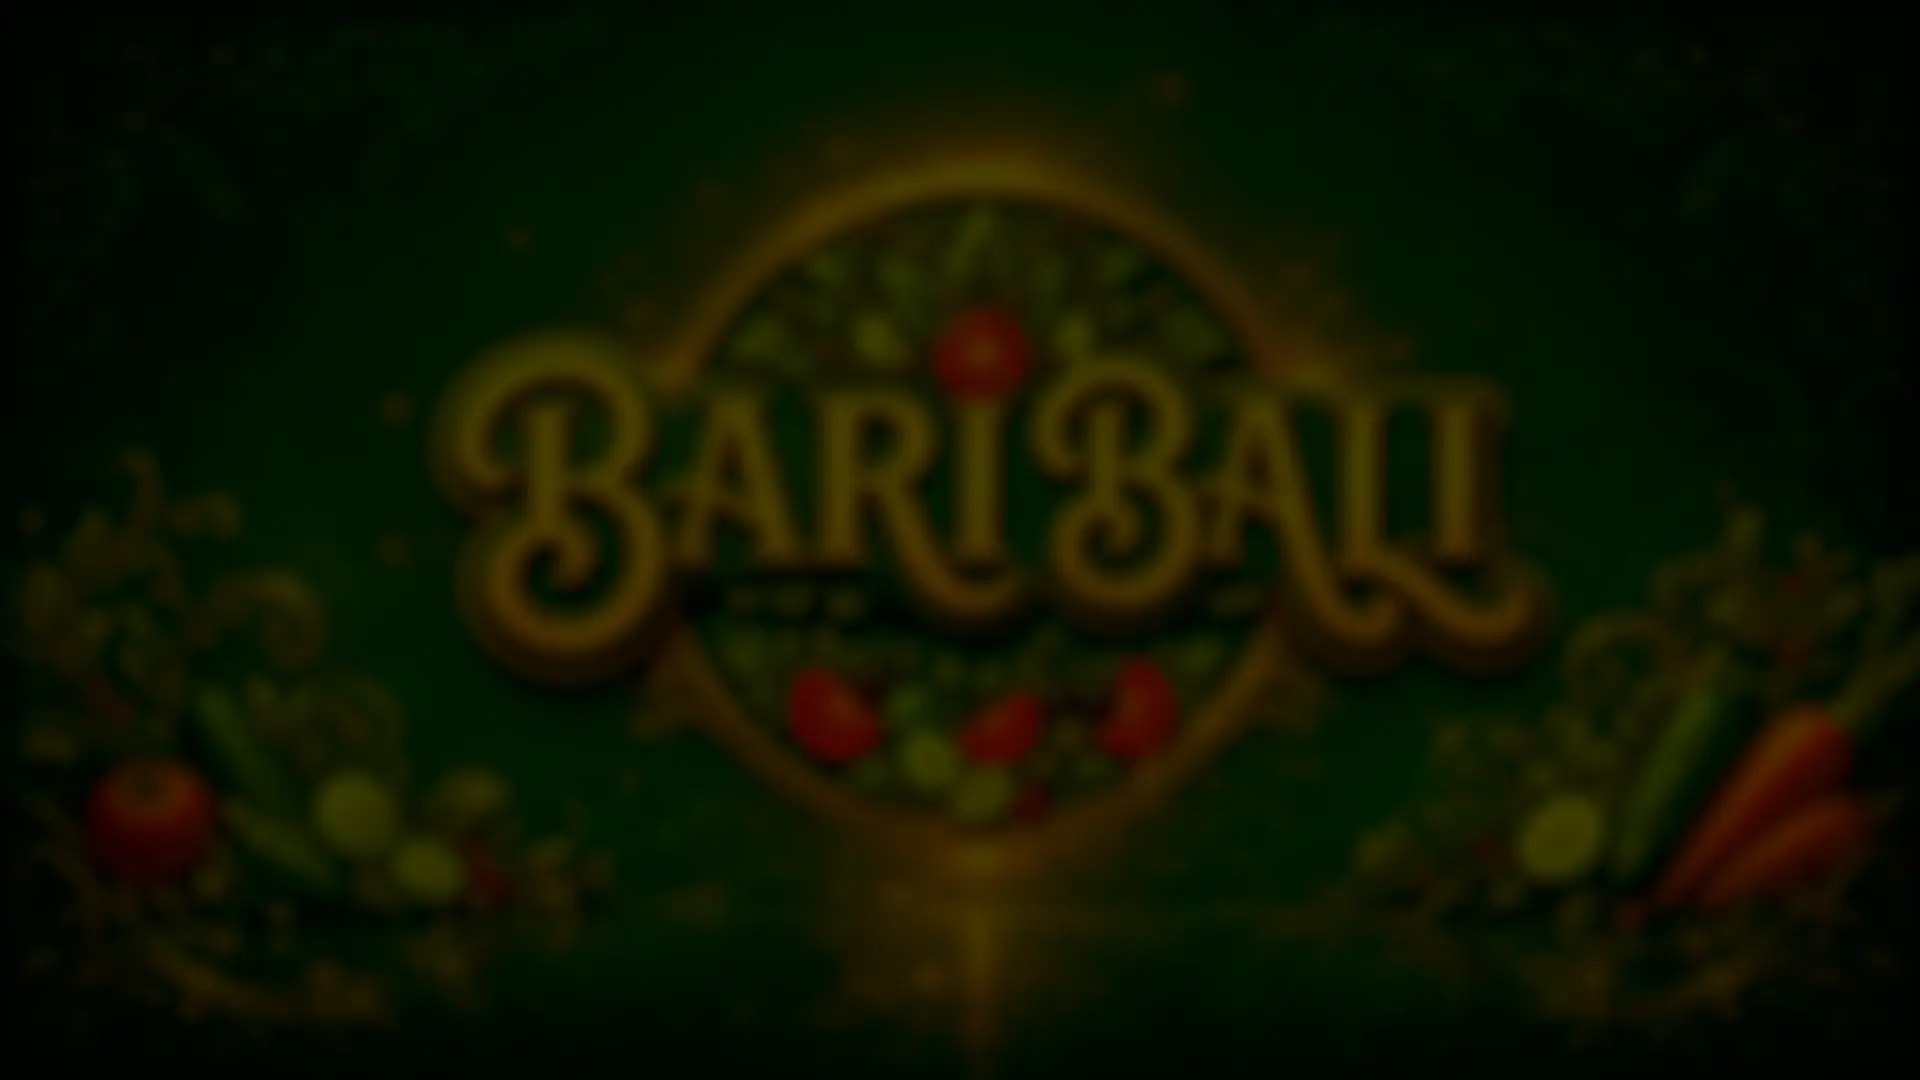
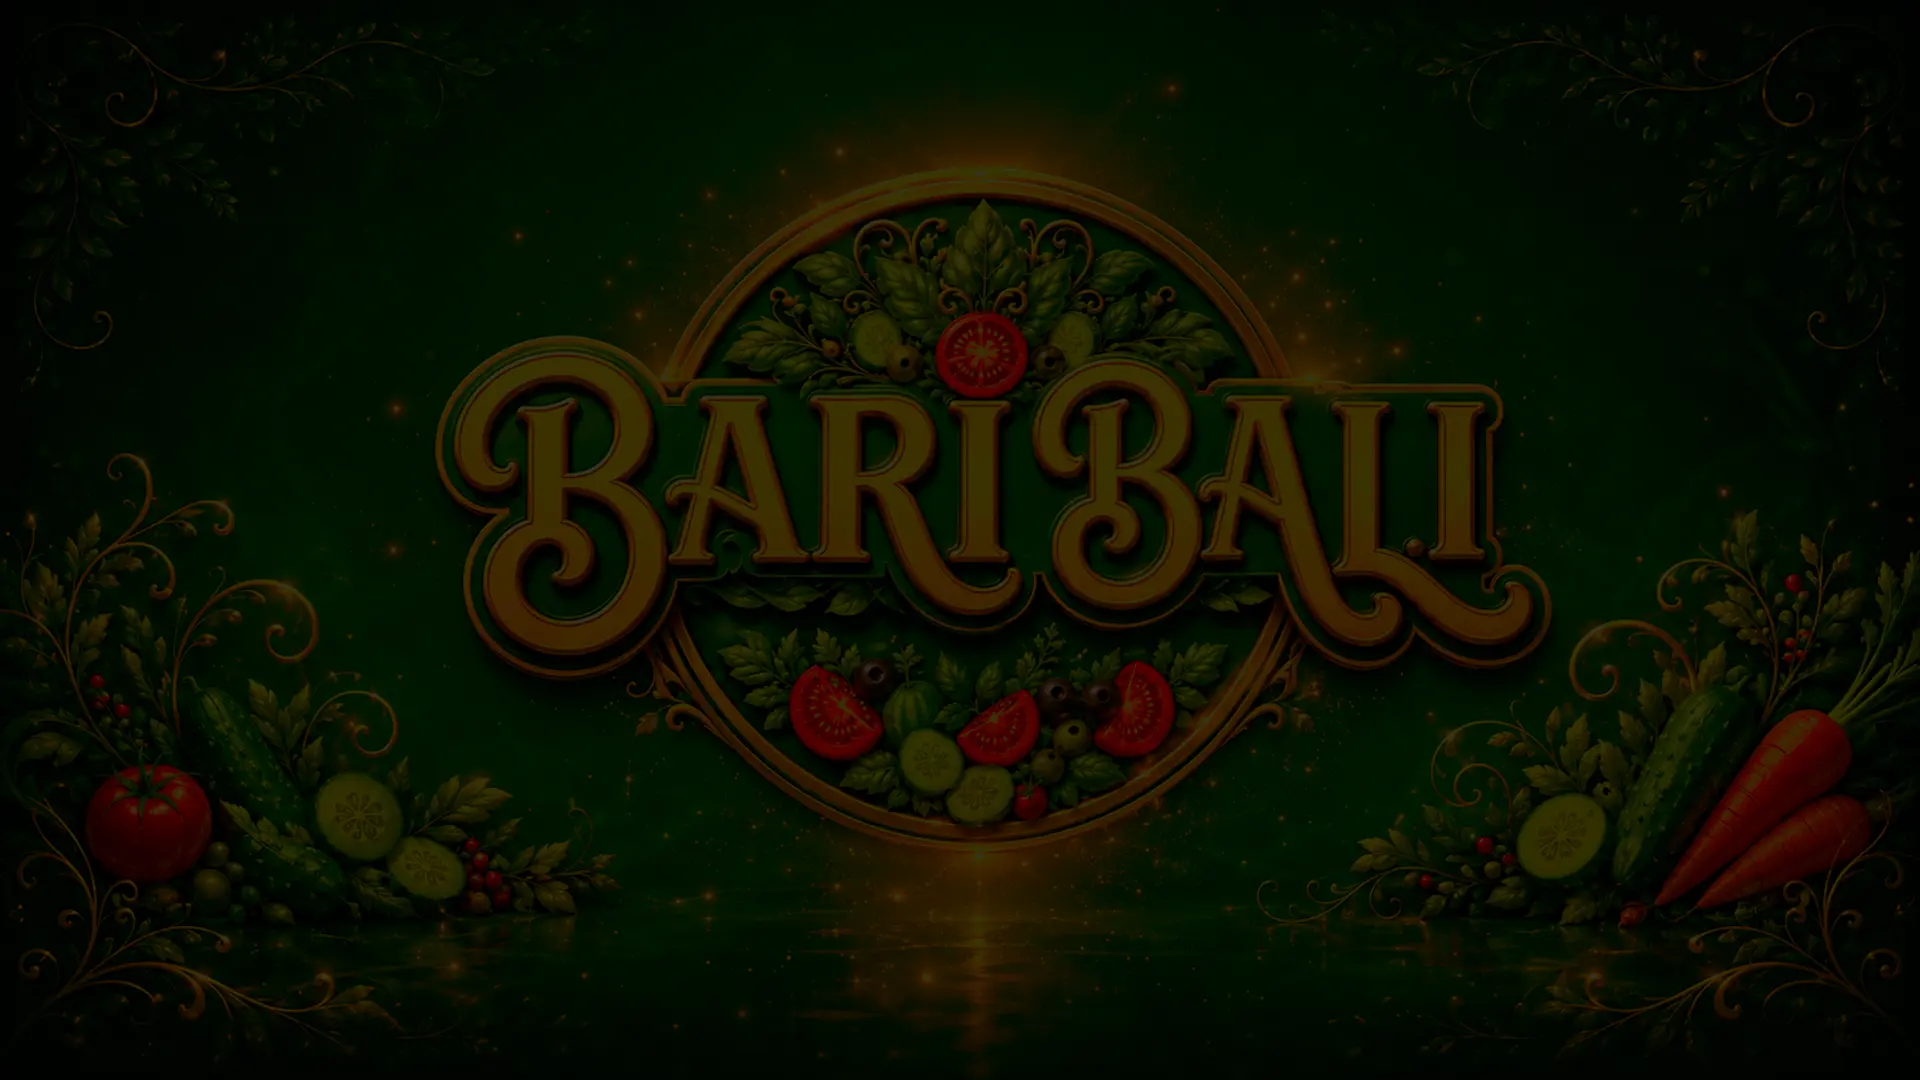
feat: the kitchen plate, sharp
Drops the blur at the owner's request, and the measurement says it cost nothing
to drop.

The blur existed to stop the artwork competing with text. Darkening does that on
its own: the UNBLURRED plate at 30% brightness varies less behind the working
area than the blurred one did at 40% — spread 9.2 against 9.9, on a 0-255 scale,
sampled after the scrim. The blur was buying softness the exposure had already
paid for, and it was throwing away the filigree and the gold edges of the
wordmark, which are the things that make the board look like BariBali rather
than like a dark green rectangle.

All three treatments regenerated sharp, so the ?bg switches stay meaningful:

    bg-a  22% bright   mean 13.0   spread  6.9    68KB   quietest
    bg    30% bright   mean 13.7   spread  9.2    84KB   default
    bg-b  42% bright   mean 14.8   spread 12.7   108KB   boldest

Still all near mean 14, so white text is comfortable on any of them. Bigger
files than the blurred versions — blur compresses well and detail does not — but
this is a wall tablet that loads the image once a shift.

Verified: tsc clean, lint 0 errors / 14 warnings, build compiled. Checked in
Chrome at 1920x1200 against synthetic tickets.

diff --git a/src/app/kitchen/KitchenBoard.tsx b/src/app/kitchen/KitchenBoard.tsx
@@ -49,15 +49,26 @@ function playKitchenChime(ctx: AudioContext) {
 const CHECK_KEY = 'bb-kitchen-checks';
 
 /**
- * The board's ground: the owner's 16:9 brand plate, blurred and darkened.
+ * The board's ground: the owner's 16:9 brand plate, darkened. Sharp, not
+ * blurred — and it turns out that costs nothing.
  *
- * Three treatments exist in public/kitchen-assets — bg-a (quietest), bg (this
- * one), bg-b (boldest) — because the right amount of brand on a work surface is
- * a judgement, not a fact. Measured behind the working area, after the scrim:
- * all three sit at a mean luminance of ~14/255, so white text is comfortable on
- * any of them. What differs is how much the ground VARIES (spread 7.0 / 9.9 /
- * 12.6 on a 0-255 scale), and therefore how much it pulls at the eye — which is
- * an attention question, not a legibility one.
+ * The blur was there to stop the artwork competing with text. Measuring it,
+ * darkening does that job on its own: the unblurred plate at 30% brightness
+ * varies LESS behind the working area than the blurred one did at 40%
+ * (spread 9.2 against 9.9). The blur was buying softness that the exposure had
+ * already paid for.
+ *
+ * Three treatments in public/kitchen-assets, because how much brand belongs on
+ * a work surface is a judgement rather than a fact. Behind the working area,
+ * after the scrim, on a 0-255 scale:
+ *
+ *     bg-a  22% bright   mean 13.0   spread  6.9   quietest
+ *     bg    30% bright   mean 13.7   spread  9.2   default
+ *     bg-b  42% bright   mean 14.8   spread 12.7   boldest
+ *
+ * All three sit near mean 14, so white text is comfortable on any of them —
+ * what differs is how much the ground pulls at the eye, which is an attention
+ * question, not a legibility one. ?bg=a / ?bg=b switch live.
  */
 const KITCHEN_BG = '/kitchen-assets/bg.webp';
 
